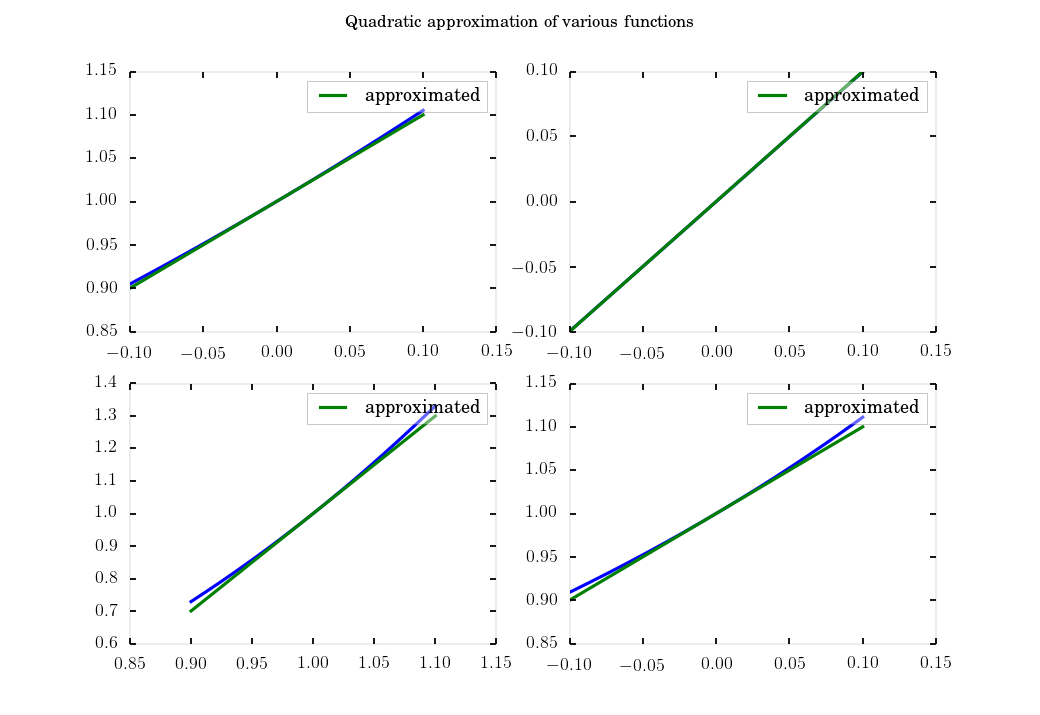
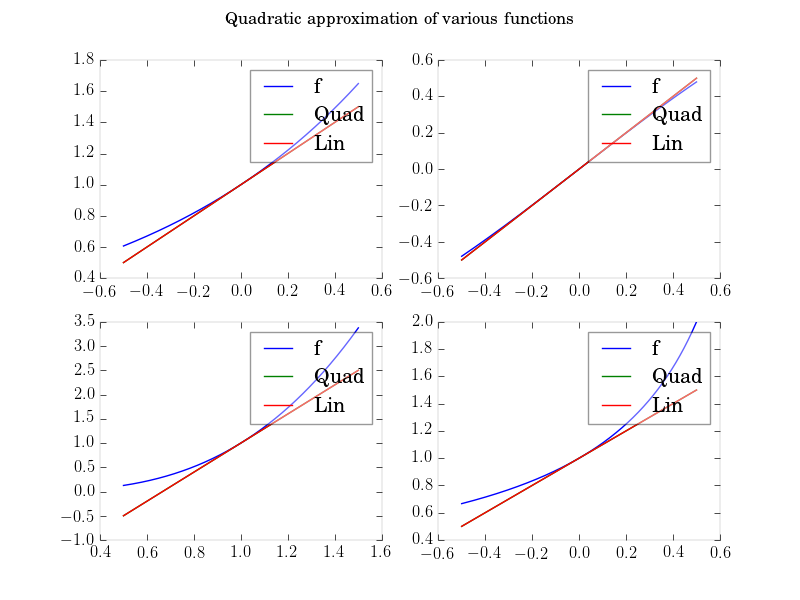
Various type of approximation.

diff --git a/Calculus2016/Homework3/sol3.py b/Calculus2016/Homework3/sol3.py
@@ -20,20 +20,16 @@ import numpy as np
 
 import matplotlib as mpl
 import matplotlib.pyplot as plt
-try:
-    mpl.style.use( 'seaborn-talk' )
-except Exception as e:
-    pass
 mpl.rcParams['axes.linewidth'] = 0.1
 plt.rc('text', usetex=True)
 plt.rc('font', family='serif')
 
 
 def plot_approximation(ax, f, at ):
-    xs = np.linspace( at - 0.1, at + 0.1, 10000 )
-    ax.plot( xs, f(xs) )
+    xs = np.linspace( at - 0.5, at + 0.5, 10000 )
+    ax.plot( xs, f(xs), label='f' )
     ys = f( xs )
-    newX, newY = [], []
+    newX, linY, quadY = [], [], []
     for h in xs - at:
         y0 = ys[ len(ys) / 2 ]
         fd = np.diff( [ f(at), f(at+1e-6), f(at+2e-6) ] )
@@ -41,8 +37,11 @@ def plot_approximation(ax, f, at ):
         fd = fd[0] / 1e-6 
         fdd = fdd[0] / 1e-6
         newX.append( at + h )
-        newY.append( f(at) + h * fd + (h * h * 0.5 ) * fdd )
-    ax.plot( newX, newY, label = 'approximated' )
+        quadY.append( f(at) + h * fd + (h * h * 0.5 ) * fdd )
+        linY.append( f(at) + h * fd )
+
+    ax.plot( newX, linY, label = 'Quad' )
+    ax.plot( newX, quadY, label = 'Lin' )
     ax.legend( framealpha = 0.4 )
 
 
